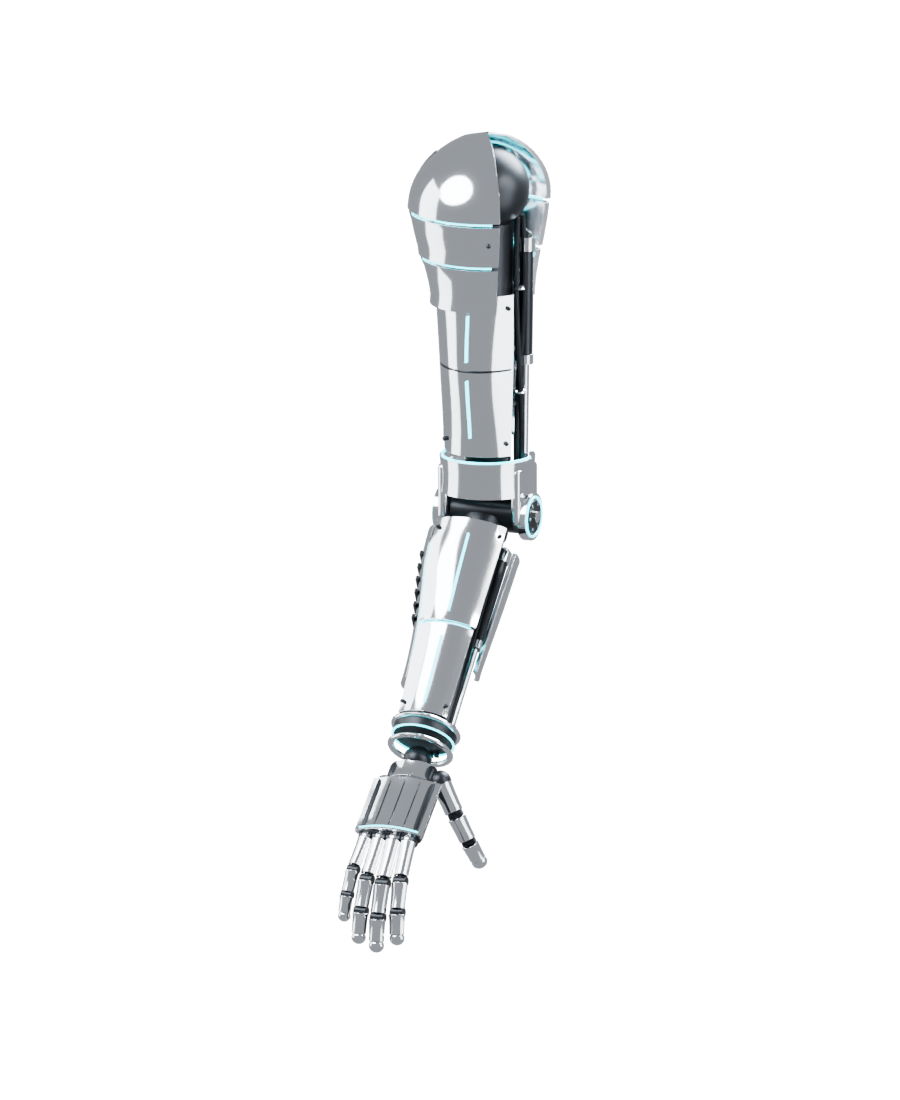
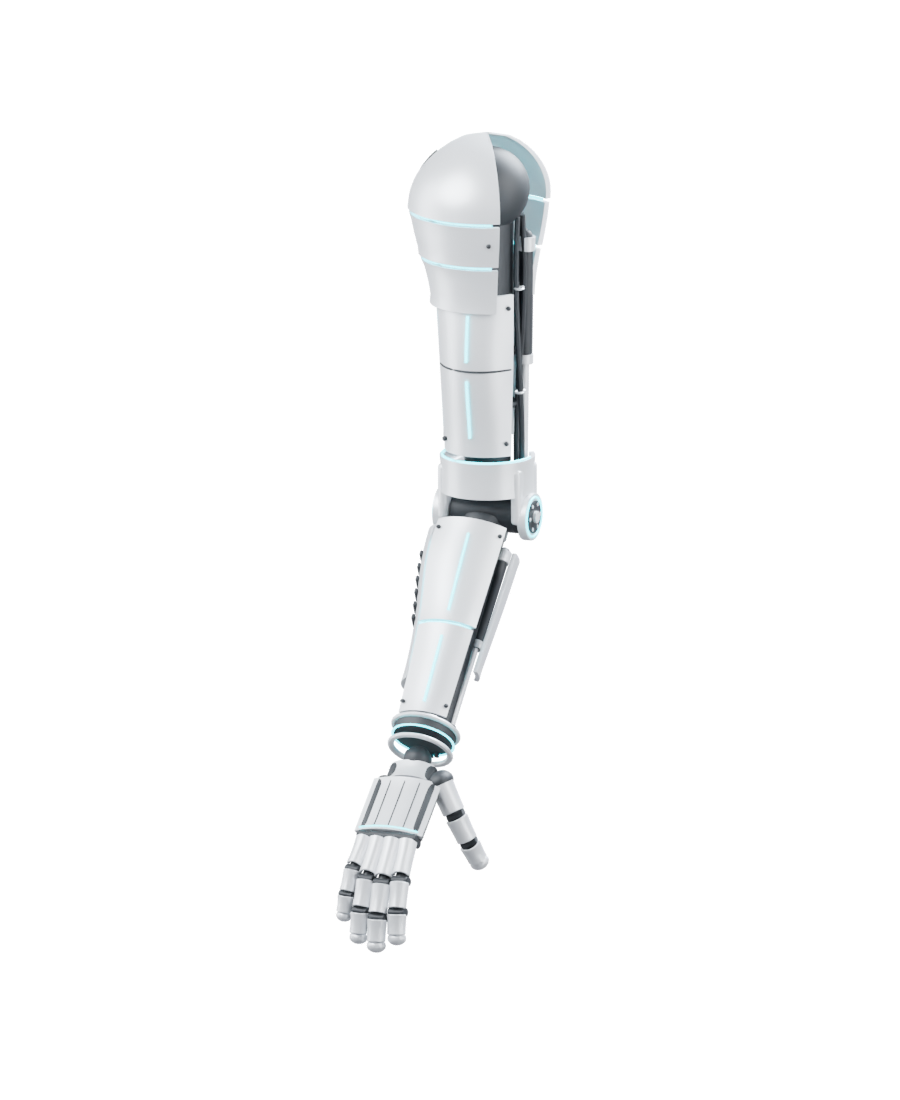
docs: 最新の腕モデルの商品画像と確認記録を揃える

Changed region(s): [[0.3733, 0.1236, 0.6222, 0.8655], [0.5289, 0.7727, 0.56, 0.8036], [0.4356, 0.5255, 0.4667, 0.5564]]

diff --git a/scripts/blender/render_shop_products.py b/scripts/blender/render_shop_products.py
@@ -44,7 +44,7 @@ for item in items:
     scene.render.image_settings.file_format='PNG'; scene.render.image_settings.color_mode='RGBA'
     scene.view_settings.view_transform='AgX'
     world=bpy.data.worlds.new('Product studio'); scene.world=world; world.use_nodes=True
-    world.node_tree.nodes.get('Background').inputs[0].default_value=(.38,.40,.43,1)
+    next(n for n in world.node_tree.nodes if n.type=='BACKGROUND').inputs[0].default_value=(.38,.40,.43,1)
     for loc,power,size,color in [((-3,-4,5),1100,5,(.92,.96,1)),((4,-1,3),800,3,(1,1,1)),((1,3,4),1300,3,(.8,.9,1))]:
         data=bpy.data.lights.new('Softbox','AREA');data.energy=power;data.shape='DISK';data.size=size;data.color=color
         obj=bpy.data.objects.new('Softbox',data);scene.collection.objects.link(obj);obj.location=loc

diff --git a/docs/mechanical-half-mask.md b/docs/mechanical-half-mask.md
@@ -124,4 +124,3 @@ OFFとRESETで選択枠が消え、RESETはPROTOTYPE/OFFへ戻る。読み込み
 検証：WindowsのローカルWebで画像・3種切替・自動ON・OFF・RESET・白色固定を確認。
 カメラ接続は成功したが、顔が検出されない状態のため今回の実装後の実着用位置・PNG撮影は未確認。
 `npm ci --ignore-scripts --no-audit --no-fund`、`npm run lint`、`npm test`（121件）成功。
-

diff --git a/project-chrome/assets/shop/README.md b/project-chrome/assets/shop/README.md
@@ -19,4 +19,3 @@ blender --background --python scripts/blender/render_shop_products.py
 `mask-prototype.png`、`mask-oni.png`、`mask-rabbit.png`は最新の編集用Blender原本から生成した透過PNG（512×384）。
 `scripts/blender/render_mask_cards.py`をBlender 5.3で実行して更新する。原本へは保存しない。
 商品カードはMASK内の3種選択に使用し、選択するとON・色・選択枠を同期する。
-
